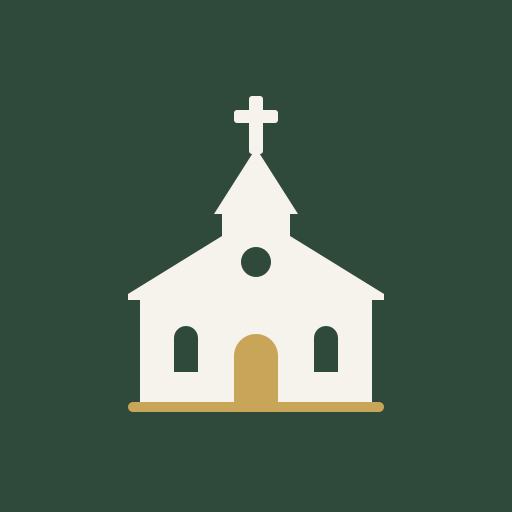
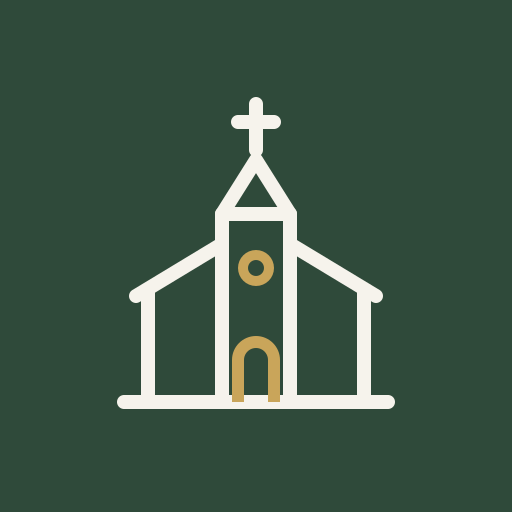
앱 아이콘을 선으로 그린 성당(4번 시안)으로 변경
Claude-Session: https://claude.ai/code/session_012dYeDNUeQFJXv8UBLHR6qB

Changed region(s): [[0.2188, 0.3438, 0.7812, 0.8125], [0.4375, 0.1875, 0.5625, 0.25]]

diff --git a/sw.js b/sw.js
@@ -3,7 +3,7 @@
  * - 글꼴: 한 번 받으면 저장본 사용
  * - 공지·미사 시간(구글 스크립트)은 건드리지 않음 (홈페이지가 따로 저장해 둠)
  */
-const CACHE = 'chapel-v2';
+const CACHE = 'chapel-v3';
 const CORE = ['/', '/index.html', '/manifest.webmanifest', '/icons/icon-192.png', '/icons/favicon.svg'];
 const FONT_HOSTS = ['fonts.googleapis.com', 'fonts.gstatic.com', 'cdn.jsdelivr.net'];
 
